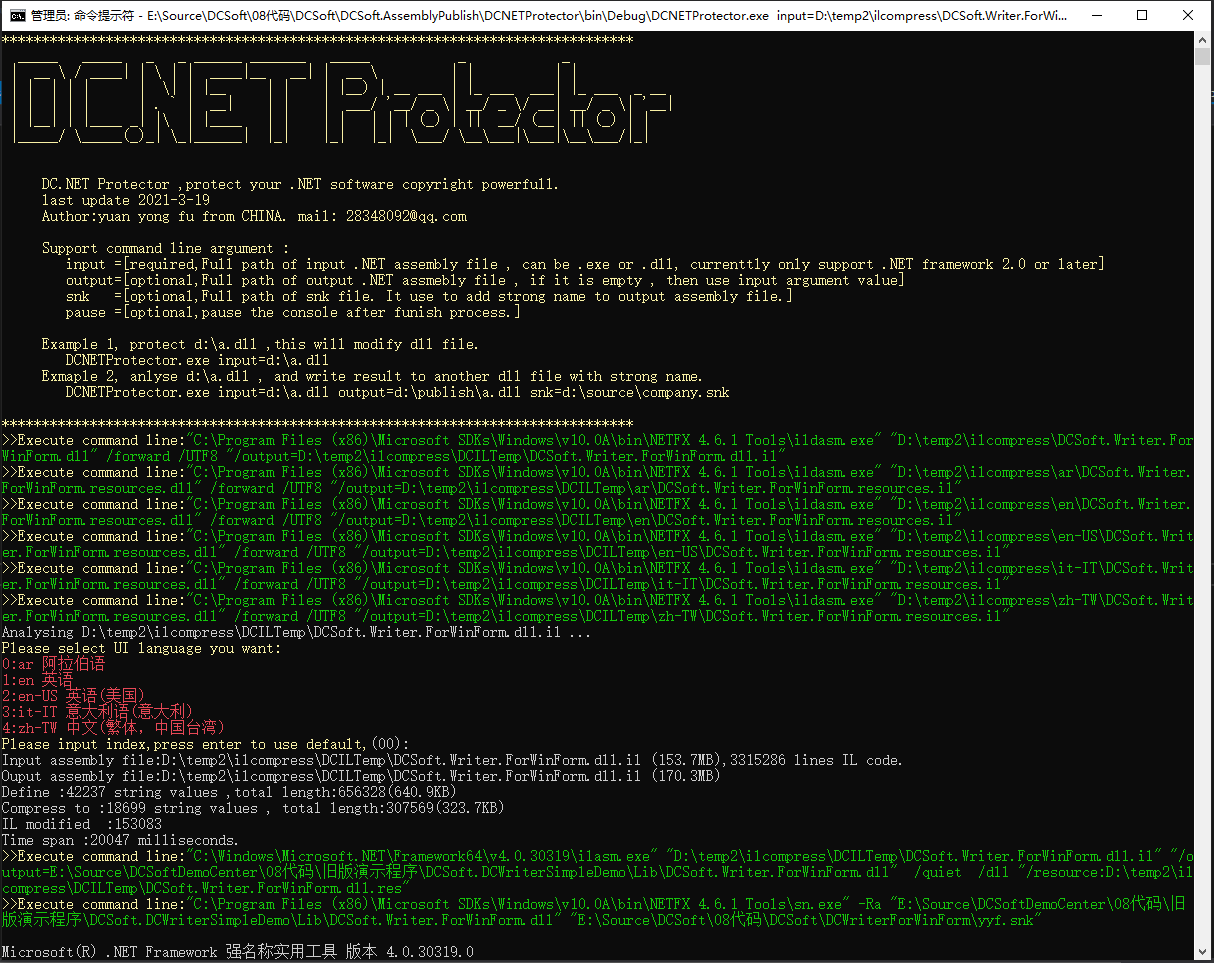
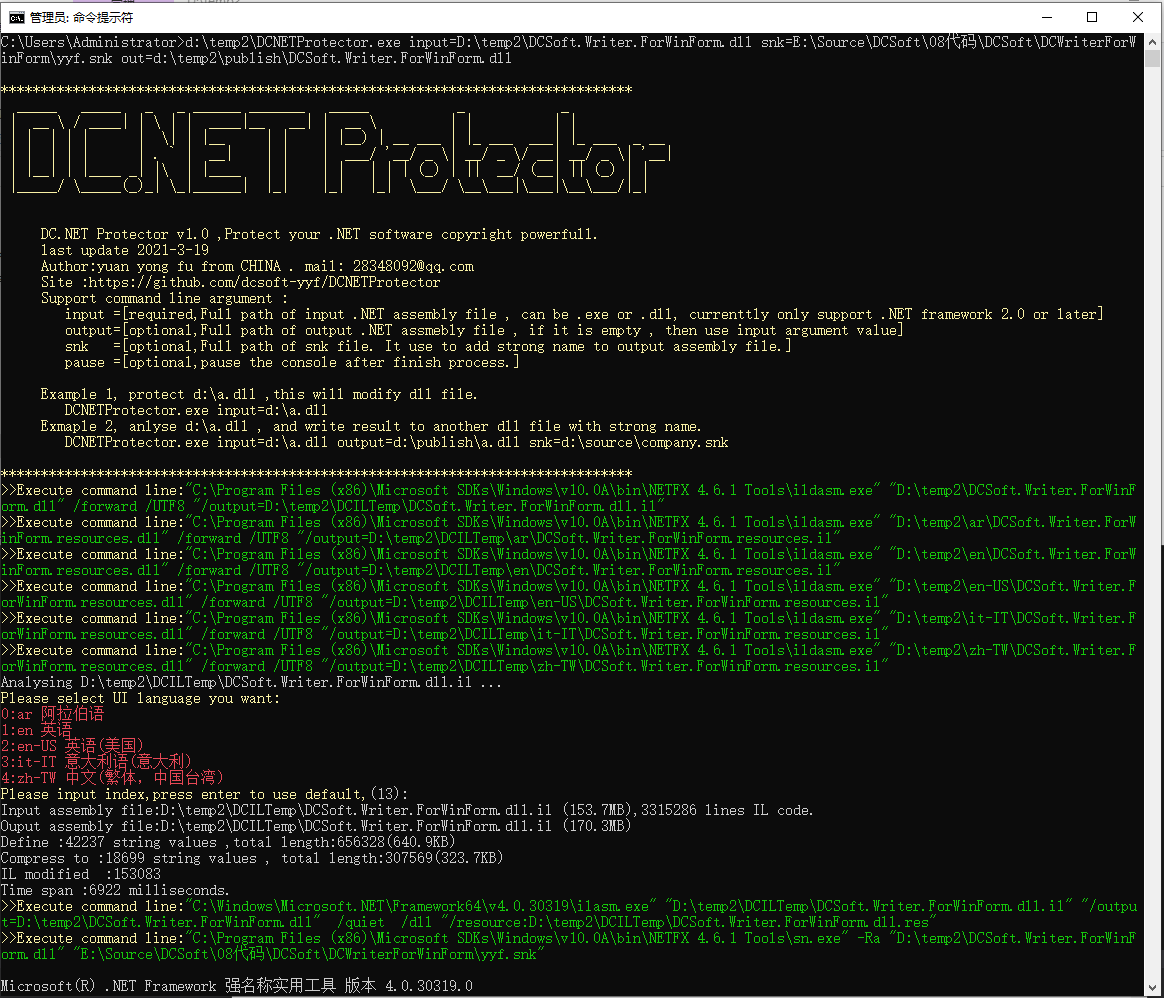
33

diff --git a/source/ConsoleProgram.cs b/source/ConsoleProgram.cs
@@ -2,6 +2,21 @@
 using System.Collections.Generic;
 using System.Text;
 using System.IO;
+using System.Runtime.CompilerServices;
+using System.Runtime.InteropServices;
+using System.Reflection;
+
+[assembly: AssemblyTitle("DC.NET Protector console application")]
+[assembly: AssemblyDescription("Protect your .NET software copyright powerfull.")]
+[assembly: AssemblyConfiguration("")]
+[assembly: AssemblyCompany("DCSoft")]
+[assembly: AssemblyProduct("DC.NET Protector")]
+[assembly: AssemblyCopyright("Copyright ©  2021")]
+[assembly: AssemblyTrademark("")]
+[assembly: AssemblyCulture("")]
+[assembly: ComVisible(false)]
+[assembly: AssemblyVersion("1.0.0.0")]
+[assembly: AssemblyFileVersion("1.0.0.0")]
 
 namespace DCNETProtector
 {
@@ -24,10 +39,10 @@ namespace DCNETProtector
  |_____/ \_____(_)_| \_|______|  |_|    |_|   |_|  \___/ \__\___|\___|\__\___/|_|   
                                                                                     
 
-     DC.NET Protector ,protect your .NET software copyright powerfull.
+     DC.NET Protector v1.0 ,Protect your .NET software copyright powerfull.
      last update 2021-3-19
-     Author:yuan yong fu from CHINA. mail: 28348092@qq.com
-
+     Author:yuan yong fu from CHINA . mail: 28348092@qq.com
+     Site :https://github.com/dcsoft-yyf/DCNETProtector
      Support command line argument :
         input =[required,Full path of input .NET assembly file , can be .exe or .dll, currenttly only support .NET framework 2.0 or later]
         output=[optional,Full path of output .NET assmebly file , if it is empty , then use input argument value]
@@ -89,6 +104,7 @@ namespace DCNETProtector
                 {
                     if (File.Exists(inputAssmblyFileName))
                     {
+                        Console.Title = "DC.NET Protector - " + inputAssmblyFileName;
                         DCProtectEngine.ExecuteAssemblyFile(inputAssmblyFileName, snkFileName, outputAssemblyFileName);
                     }
                     else
